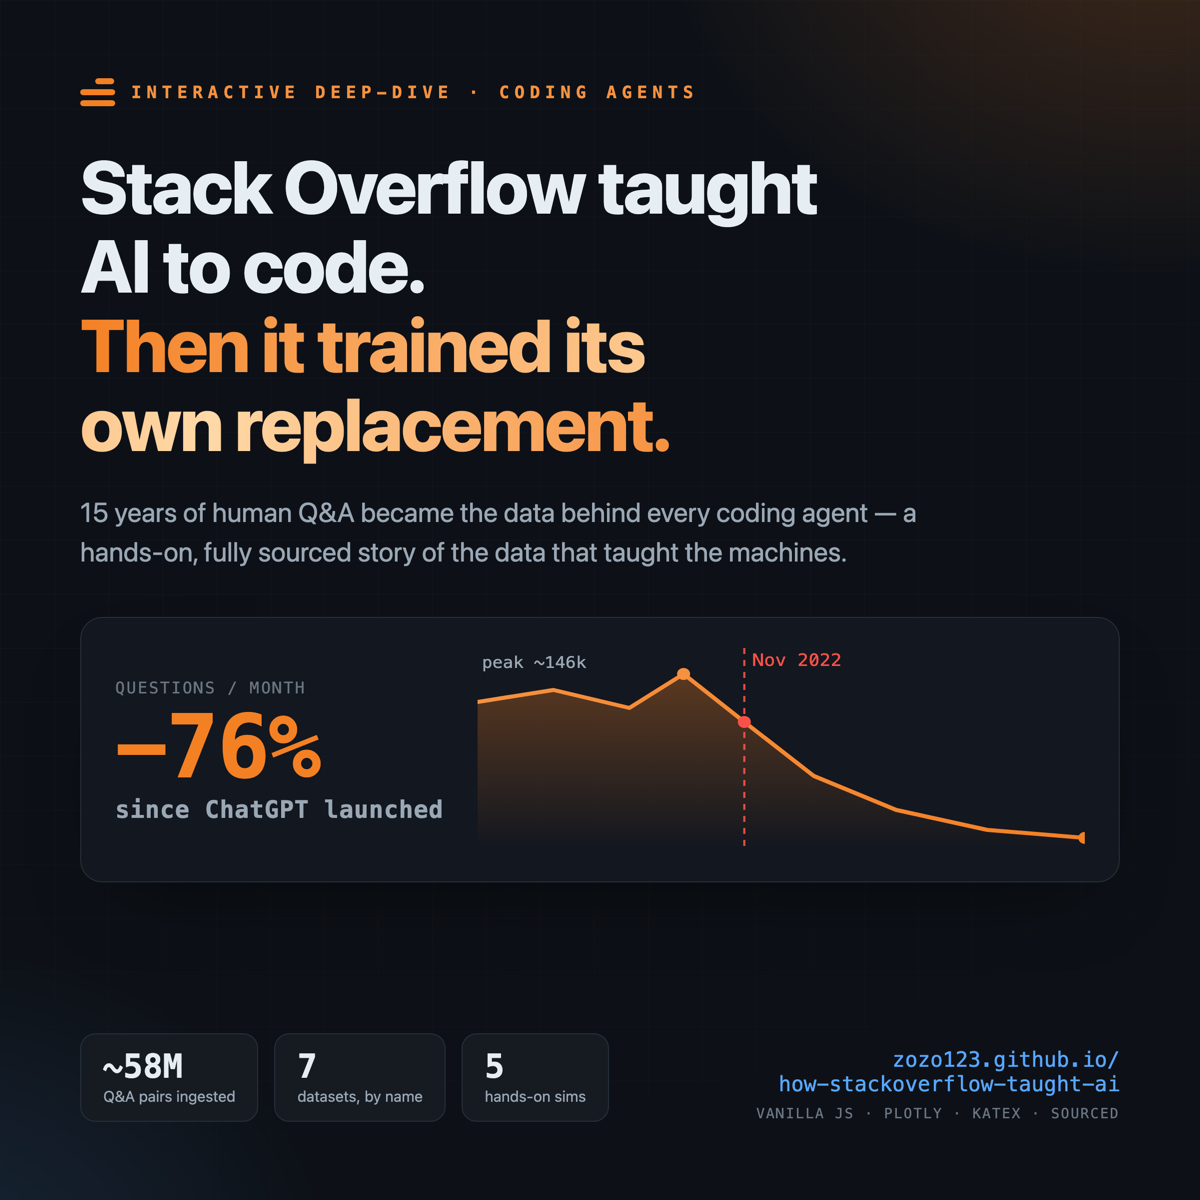
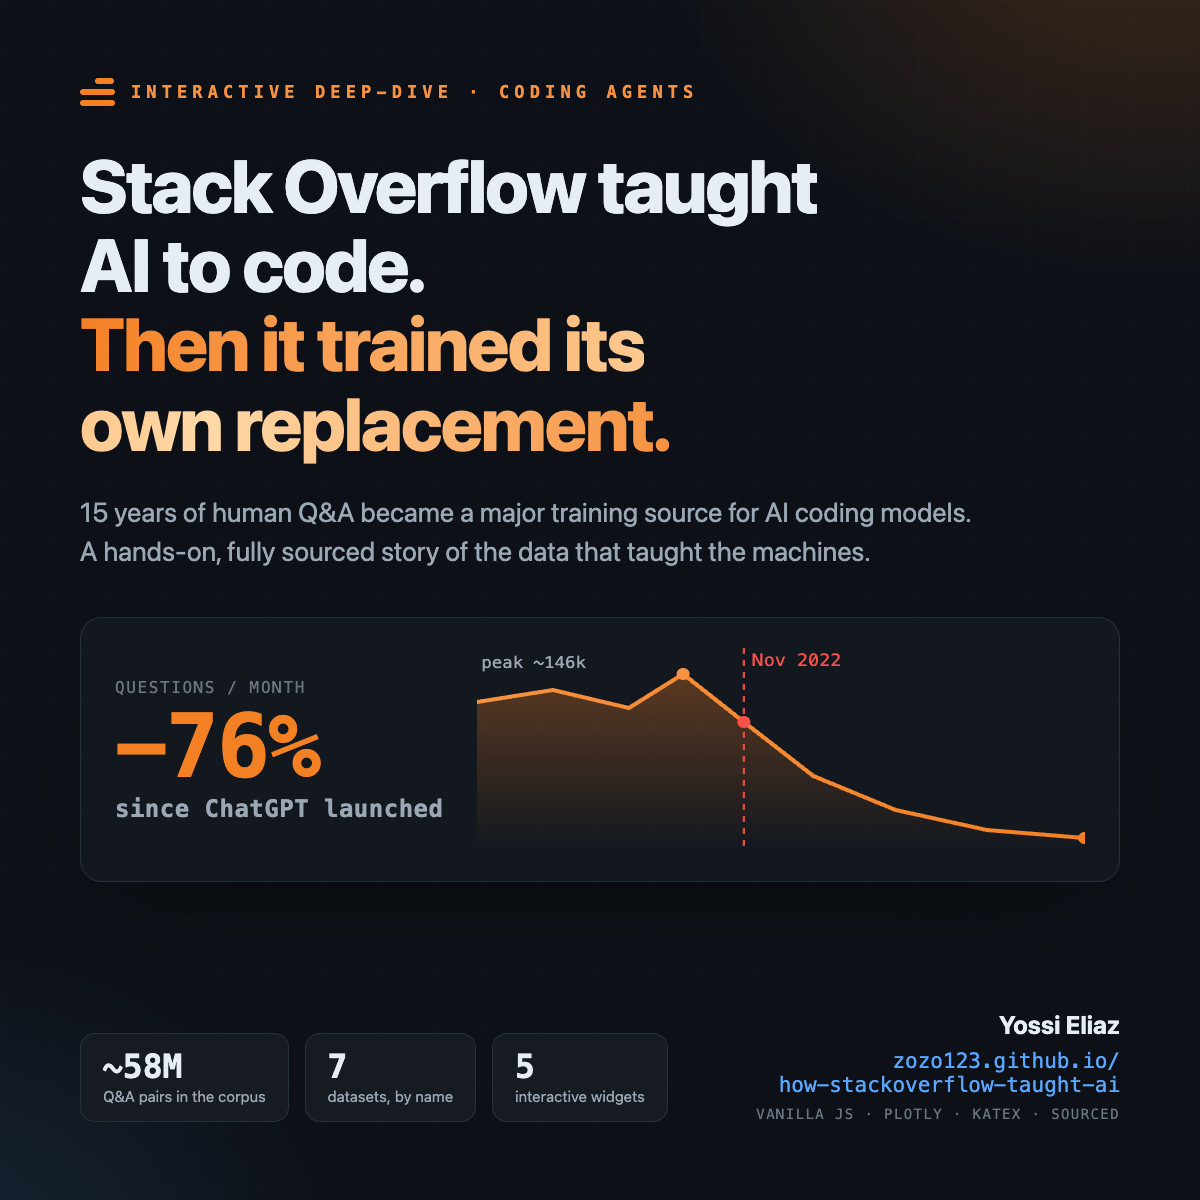
Add author, SEO metadata and mobile fixes; soften overclaims
- Contain the KaTeX reward formula so the page no longer widens to 682px
  at a 390px viewport; keep the nav button on one line on phones
- Add byline and date, footer link to zozo123.github.io, meta author,
  canonical, shorter title and description, and Article JSON-LD
- Add an answer-first summary and replace superlatives in the lede,
  meta/social descriptions, share cards and POST.md
- Re-render og-image.png and og-square.png with the author name and
  the ~26k label moved off the chart line
- Replace the dead DevClass source with Stack Exchange's own
  data-dump announcement
- Add a range-slider focus style and tie slider labels to their inputs
- Remove SOCIAL.md launch copy; update README first screen

diff --git a/index.html b/index.html
@@ -3,20 +3,44 @@
 <head>
 <meta charset="utf-8" />
 <meta name="viewport" content="width=device-width, initial-scale=1" />
-<title>The Data That Taught the Machines · How Stack Overflow Built the Coding Agent</title>
-<meta name="description" content="An interactive deep-dive into how 15 years of Stack Overflow Q&A became the foundational training data for AI coding agents — the perfect classroom, the reward signal, the corpus, the collapse, and what comes next." />
-<meta property="og:title" content="The Data That Taught the Machines" />
-<meta property="og:description" content="How Stack Overflow accidentally built the perfect dataset for teaching AI to code — and then trained its own replacement. Interactive, sourced, hands-on." />
+<title>How Stack Overflow Taught AI to Code · Yossi Eliaz</title>
+<meta name="description" content="Interactive, sourced essay by Yossi Eliaz: how Stack Overflow Q&amp;A became AI coding training data, and how monthly questions fell 76% from Nov 2022 to Dec 2024." />
+<meta name="author" content="Yossi Eliaz" />
+<link rel="canonical" href="https://zozo123.github.io/how-stackoverflow-taught-ai/" />
+<meta property="og:title" content="The Data That Taught the Machines: how Stack Overflow taught AI to code" />
+<meta property="og:description" content="Interactive, sourced essay by Yossi Eliaz on how Stack Overflow Q&amp;A became a major training source for AI coding models, and how new questions declined after ChatGPT." />
 <meta property="og:type" content="article" />
 <meta property="og:url" content="https://zozo123.github.io/how-stackoverflow-taught-ai/" />
 <meta property="og:image" content="https://zozo123.github.io/how-stackoverflow-taught-ai/og-image.png" />
 <meta property="og:image:width" content="1200" />
 <meta property="og:image:height" content="630" />
-<meta property="og:image:alt" content="Stack Overflow didn't just help AI learn to code — it was the classroom. A declining-questions chart with a ChatGPT marker." />
+<meta property="og:image:alt" content="Stack Overflow taught AI to code, by Yossi Eliaz. A declining monthly-questions chart with a ChatGPT marker." />
+<meta property="article:author" content="Yossi Eliaz" />
+<meta property="article:published_time" content="2026-06-07" />
 <meta name="twitter:card" content="summary_large_image" />
-<meta name="twitter:title" content="The Data That Taught the Machines" />
-<meta name="twitter:description" content="How 15 years of human Q&A became the training data for AI coding agents — and then trained its own replacement. Interactive & sourced." />
+<meta name="twitter:title" content="The Data That Taught the Machines: how Stack Overflow taught AI to code" />
+<meta name="twitter:description" content="Interactive, sourced essay by Yossi Eliaz on how Stack Overflow Q&amp;A became a major training source for AI coding models, and how new questions declined after ChatGPT." />
 <meta name="twitter:image" content="https://zozo123.github.io/how-stackoverflow-taught-ai/og-image.png" />
+<script type="application/ld+json">
+{
+  "@context": "https://schema.org",
+  "@type": "Article",
+  "headline": "The Data That Taught the Machines: how Stack Overflow taught AI to code",
+  "description": "Interactive, sourced essay on how Stack Overflow Q&A became training data for AI coding models, and how new questions declined after ChatGPT.",
+  "url": "https://zozo123.github.io/how-stackoverflow-taught-ai/",
+  "mainEntityOfPage": "https://zozo123.github.io/how-stackoverflow-taught-ai/",
+  "image": "https://zozo123.github.io/how-stackoverflow-taught-ai/og-image.png",
+  "datePublished": "2026-06-07",
+  "dateModified": "2026-10-22",
+  "inLanguage": "en",
+  "author": {
+    "@type": "Person",
+    "name": "Yossi Eliaz",
+    "url": "https://yossieliaz.netlify.app/",
+    "sameAs": ["https://github.com/zozo123", "https://www.linkedin.com/in/yossi-eliaz/"]
+  }
+}
+</script>
 
 <link rel="preconnect" href="https://cdn.jsdelivr.net" />
 <link rel="stylesheet" href="https://cdn.jsdelivr.net/npm/katex@0.16.11/dist/katex.min.css" crossorigin="anonymous" />
@@ -54,8 +78,9 @@
   nav.top .brand .stack i:nth-child(1){width:11px;margin-left:7px}
   nav.top .brand .stack i:nth-child(2){width:18px}
   nav.top .brand .stack i:nth-child(3){width:18px}
-  nav.top a.gh{color:var(--muted);text-decoration:none;font-size:13px;border:1px solid var(--line);padding:5px 11px;border-radius:7px}
+  nav.top a.gh{color:var(--muted);text-decoration:none;font-size:13px;border:1px solid var(--line);padding:5px 11px;border-radius:7px;white-space:nowrap;flex:none;margin-left:12px}
   nav.top a.gh:hover{color:var(--ink);border-color:var(--so)}
+  @media(max-width:480px){nav.top .brand{font-size:13px;line-height:1.25}}
 
   /* hero */
   header.hero{padding:120px 0 38px;text-align:center}
@@ -65,6 +90,7 @@
   .lede{font-size:clamp(17px,2.4vw,21px);color:var(--muted);max-width:680px;margin:0 auto 26px}
   .hero-meta{font-family:var(--mono);font-size:12.5px;color:var(--faint);display:flex;gap:18px;justify-content:center;flex-wrap:wrap}
   .hero-meta b{color:var(--muted);font-weight:600}
+  .hero-meta a{color:var(--muted)}
 
   /* big stat band */
   .band{display:grid;grid-template-columns:repeat(4,1fr);gap:14px;margin:46px 0 10px}
@@ -101,6 +127,7 @@
   .ctrl label{color:var(--muted);font-family:var(--mono);font-size:12.5px;letter-spacing:.04em}
   .ctrl .val{font-family:var(--mono);color:var(--so);font-weight:700}
   input[type=range]{-webkit-appearance:none;appearance:none;height:5px;border-radius:5px;background:var(--panel2);outline:none;width:100%}
+  input[type=range]:focus-visible{outline:2px solid var(--so);outline-offset:4px}
   input[type=range]::-webkit-slider-thumb{-webkit-appearance:none;width:17px;height:17px;border-radius:50%;background:var(--so);cursor:pointer;border:3px solid #2a1a0a;box-shadow:0 0 0 1px var(--so)}
   input[type=range]::-moz-range-thumb{width:17px;height:17px;border-radius:50%;background:var(--so);cursor:pointer;border:3px solid #2a1a0a}
   .toggles{display:flex;gap:8px;flex-wrap:wrap;margin:8px 0}
@@ -187,6 +214,7 @@
   details.sources summary{cursor:pointer;color:var(--so);font-family:var(--mono);font-size:13px;letter-spacing:.06em;text-transform:uppercase;margin-bottom:10px}
   hr.soft{border:none;border-top:1px dashed var(--line);margin:30px 0}
   .center{text-align:center}
+  .katex-display{overflow-x:auto;overflow-y:hidden;max-width:100%;padding:4px 0}
 </style>
 </head>
 <body>
@@ -200,8 +228,10 @@
   <div class="wrap">
     <div class="kicker">An interactive deep-dive · coding agents</div>
     <h1>Stack Overflow didn't just <em>help</em> AI learn to code.<br><span class="grad">It was the classroom.</span></h1>
-    <p class="lede">For fifteen years, developers volunteered to build the most rigorously structured dataset of programming logic in human history. Then we taught a machine to read it — and it learned to replace us. Drag the sliders, watch the corpus, and see exactly how human Q&A became machine reasoning.</p>
+    <p class="lede">An interactive essay by Yossi Eliaz (June 2026): Stack Overflow's question–answer–vote format made it a key training and reward source for AI coding models, and monthly new questions fell about 76% from Nov 2022 to Dec 2024.</p>
+    <p class="lede">For fifteen years, developers built one of the largest public, community-voted collections of programming Q&amp;A. Then labs used it to train AI coding models, which now answer many of the questions people used to ask there. Drag the sliders, watch the corpus, and see how human Q&amp;A became machine reasoning.</p>
     <div class="hero-meta">
+      <span>By <a href="https://zozo123.github.io/">Yossi Eliaz</a> · June 2026</span>
       <span><b>Built with</b> vanilla JS · Plotly · KaTeX</span>
       <span><b>No backend.</b> No telemetry.</span>
       <span><b>Every number</b> is sourced ↓</span>
@@ -294,7 +324,7 @@
     <div class="grid2">
       <div>
         <div class="ctrl">
-          <div class="row"><label>Upvotes (net score)</label><span class="val" id="upvVal">312</span></div>
+          <div class="row"><label for="upv">Upvotes (net score)</label><span class="val" id="upvVal">312</span></div>
           <input type="range" id="upv" min="-5" max="2000" value="312" />
         </div>
         <label class="check" style="margin:14px 0 6px"><input type="checkbox" id="acc" checked> Marked as the <b style="color:#48a868;margin-left:4px">accepted ✓</b> answer</label>
@@ -383,11 +413,11 @@
     <div class="grid2">
       <div>
         <div class="ctrl">
-          <div class="row"><label>Generations</label><span class="val" id="genVal">9</span></div>
+          <div class="row"><label for="gen">Generations</label><span class="val" id="genVal">9</span></div>
           <input type="range" id="gen" min="1" max="14" value="9" />
         </div>
         <div class="ctrl">
-          <div class="row"><label>Sample size / generation</label><span class="val" id="sampVal">120</span></div>
+          <div class="row"><label for="samp">Sample size / generation</label><span class="val" id="sampVal">120</span></div>
           <input type="range" id="samp" min="20" max="600" value="120" step="10" />
         </div>
         <div class="toggles">
@@ -403,7 +433,7 @@
     </div>
   </div>
 
-  <p>The good news, and the live debate: collapse depends on <em>replacing</em> human data with synthetic. A follow-up showed that if you <strong>accumulate</strong> — keep the real data and add synthetic on top — test error stays bounded.<sup class="cite" data-c="15">15</sup> Flip the mode above to see it. Which is precisely why a fresh, human, verified stream of Q&A is suddenly a strategic asset. The supply, meanwhile, is contracting fast: an audit of 14,000 web domains found that in a single year, restrictions locked away <strong>5%+ of all tokens</strong> in the common C4 corpus, and 28%+ of the most actively-maintained sources.<sup class="cite" data-c="16">16</sup></p>
+  <p>The good news, and the live debate: collapse depends on <em>replacing</em> human data with synthetic. A follow-up showed that if you <strong>accumulate</strong> — keep the real data and add synthetic on top — test error stays bounded.<sup class="cite" data-c="15">15</sup> Flip the mode above to see it. Which is precisely why a fresh, human, verified stream of Q&amp;A is suddenly a strategic asset. The supply, meanwhile, is contracting fast: an audit of 14,000 web domains found that in a single year, restrictions locked away <strong>5%+ of all tokens</strong> in the common C4 corpus, and 28%+ of the most actively-maintained sources.<sup class="cite" data-c="16">16</sup></p>
 
   <blockquote>"What happens when we stop pooling our knowledge with each other and instead pour it straight into The Machine?"
   <cite>— Peter Nixey, Stack Overflow contributor, in InfoWorld, May 2025<sup class="cite" data-c="17">17</sup></cite></blockquote>
@@ -449,7 +479,7 @@
     <div class="ev">
       <div class="yr">Feb – May 2024 · The pivot</div>
       <div class="h">If you can't beat them, license to them</div>
-      <div class="d">Stack Overflow launches <b>OverflowAPI</b> — Google Cloud / Gemini in February, then a landmark <b>OpenAI</b> deal in May 2024: paid, continuous access to fresh, vetted Q&A, with a promise to cite Stack Overflow inside ChatGPT.<sup class="cite" data-c="20">20</sup></div>
+      <div class="d">Stack Overflow launches <b>OverflowAPI</b> — Google Cloud / Gemini in February, then a landmark <b>OpenAI</b> deal in May 2024: paid, continuous access to fresh, vetted Q&amp;A, with a promise to cite Stack Overflow inside ChatGPT.<sup class="cite" data-c="20">20</sup></div>
     </div>
     <div class="ev bad">
       <div class="yr">May 2024 · The rebellion</div>
@@ -535,7 +565,7 @@
       <li id="s3">LLaMA — StackExchange 78 GB, 2.0% sampling, answers "sorted by score." <a href="https://arxiv.org/abs/2302.13971" target="_blank" rel="noopener">arXiv:2302.13971</a>.</li>
       <li id="s4">RedPajama-V1 — ~20B StackExchange tokens of ~1.2T. <a href="https://arxiv.org/abs/2411.12372" target="_blank" rel="noopener">arXiv:2411.12372</a>.</li>
       <li id="s5">Dolma v1.7 / OLMo — StackExchange 29.3M docs, ~19.6B tokens. <a href="https://huggingface.co/datasets/allenai/dolma" target="_blank" rel="noopener">Dolma card</a>, <a href="https://arxiv.org/abs/2402.00159" target="_blank" rel="noopener">arXiv:2402.00159</a>.</li>
-      <li id="s6">Stack Overflow corpus size (58M+ Q&amp;A) and CC BY-SA licensing. <a href="https://stackoverflow.co/data-licensing/" target="_blank" rel="noopener">SO data licensing</a>; <a href="https://devclass.com/2024/07/30/stack-exchange-restricts-access-to-dump-of-user-contributed-data-as-it-seeks-to-monetize-content/" target="_blank" rel="noopener">DevClass on the data-dump restriction</a>. <span class="pill warn">whether the dump restriction is compatible with CC BY-SA is disputed</span></li>
+      <li id="s6">Stack Overflow corpus size (58M+ Q&amp;A) and CC BY-SA licensing. <a href="https://stackoverflow.co/data-licensing/" target="_blank" rel="noopener">SO data licensing</a>; <a href="https://meta.stackexchange.com/questions/401324/announcing-a-change-to-the-data-dump-process" target="_blank" rel="noopener">Stack Exchange's announcement of the data-dump change (Jul 2024)</a>. <span class="pill warn">whether the dump restriction is compatible with CC BY-SA is disputed</span></li>
       <li id="s7">LIMA — 1,000 curated examples (≥10 score Stack Exchange answers) beat 52k. <a href="https://arxiv.org/abs/2305.11206" target="_blank" rel="noopener">arXiv:2305.11206</a>.</li>
       <li id="s8">StackLLaMA — reward <span style="font-family:var(--mono)">round(log2(1+upvotes)) + accepted − (score&lt;0)</span>. <a href="https://huggingface.co/blog/stackllama" target="_blank" rel="noopener">HF blog</a>; dataset <code>lvwerra/stack-exchange-paired</code>.</li>
       <li id="s9">Stack Overflow Developer Survey 2025 — 84% use AI, trust 33% (distrust 46%), "almost right" the #1 frustration (45%). <a href="https://survey.stackoverflow.co/2025/ai/" target="_blank" rel="noopener">survey.stackoverflow.co/2025/ai</a>.</li>
@@ -560,9 +590,9 @@
 </main>
 
 <footer class="wrap">
-  <p><strong style="color:var(--ink)">The Data That Taught the Machines.</strong> An interactive essay on how Stack Overflow built the coding agent — and the incentive problem it left behind.</p>
+  <p><strong style="color:var(--ink)">The Data That Taught the Machines.</strong> An interactive essay on how Stack Overflow taught AI to code — and the incentive problem it left behind.</p>
   <p>Built in the spirit of a learn-by-dragging sandbox. Vanilla JS, Plotly &amp; KaTeX. No backend, no telemetry. Numbers are sourced above; illustrative items are labeled. Generated with help from Claude Code.</p>
-  <p style="margin-top:14px"><a id="ghlink2" href="#" target="_blank" rel="noopener">Source on GitHub ↗</a></p>
+  <p style="margin-top:14px"><a href="https://zozo123.github.io/">More writing by Yossi Eliaz</a> · <a id="ghlink2" href="#" target="_blank" rel="noopener">Source on GitHub ↗</a></p>
 </footer>
 
 <script>

diff --git a/og.html b/og.html
@@ -46,6 +46,7 @@
   .chip .n{font-size:27px;font-weight:800;color:#e6edf3;line-height:1}
   .chip .l{font-size:13px;color:#9aa7b4}
   .url{text-align:right;white-space:nowrap}
+  .url .by{display:block;font-family:-apple-system,BlinkMacSystemFont,"Segoe UI",Helvetica,Arial,sans-serif;font-size:21px;font-weight:700;color:#e6edf3;margin-bottom:8px}
   .url .a{font-size:17px;color:#58a6ff}
   .url .s{display:block;font-size:12.5px;letter-spacing:.10em;color:#6b7682;margin-top:7px;text-transform:uppercase}
 </style>
@@ -59,7 +60,7 @@
       <span class="kicker mono">Interactive deep-dive · coding agents</span>
     </div>
     <h1>Stack Overflow taught<br>AI to code.<br><span class="g">Then it trained its<br>own replacement.</span></h1>
-    <div class="sub">15 years of human Q&amp;A became the data behind every coding agent. Hands-on &amp; fully sourced.</div>
+    <div class="sub">15 years of human Q&amp;A became a major training source for AI coding models. Hands-on &amp; fully sourced.</div>
   </div>
 
   <div class="R">
@@ -84,17 +85,18 @@
       <circle cx="120" cy="20" r="5" fill="#f6913f"/>
       <text x="2" y="14" fill="#9aa7b4" font-family="monospace" font-size="12.5">peak ~146k</text>
       <circle cx="356" cy="140" r="5" fill="#f48024"/>
-      <text x="276" y="135" fill="#9aa7b4" font-family="monospace" font-size="12.5">~26k</text>
+      <text x="314" y="122" fill="#9aa7b4" font-family="monospace" font-size="12.5">~26k</text>
     </svg>
   </div>
 
   <div class="B">
     <div class="chips">
-      <div class="chip"><span class="n mono">~58M</span><span class="l">Q&amp;A pairs ingested</span></div>
+      <div class="chip"><span class="n mono">~58M</span><span class="l">Q&amp;A pairs in the corpus</span></div>
       <div class="chip"><span class="n mono">7</span><span class="l">datasets, by name</span></div>
-      <div class="chip"><span class="n mono">5</span><span class="l">hands-on simulations</span></div>
+      <div class="chip"><span class="n mono">5</span><span class="l">interactive widgets</span></div>
     </div>
     <div class="url mono">
+      <span class="by">Yossi Eliaz</span>
       <span class="a">zozo123.github.io/how-stackoverflow-taught-ai</span>
       <span class="s">vanilla JS · Plotly · KaTeX · sourced</span>
     </div>

diff --git a/og-square.html b/og-square.html
@@ -45,6 +45,7 @@
   .chip .n{font-size:33px;font-weight:800;color:#e6edf3;line-height:1}
   .chip .l{font-size:15px;color:#9aa7b4}
   .url{text-align:right}
+  .url .by{display:block;font-family:-apple-system,BlinkMacSystemFont,"Segoe UI",Helvetica,Arial,sans-serif;font-size:25px;font-weight:700;color:#e6edf3;margin-bottom:10px}
   .url .a{font-size:21px;color:#58a6ff}
   .url .s{display:block;font-size:14px;letter-spacing:.10em;color:#6b7682;margin-top:9px;text-transform:uppercase}
 </style>
@@ -58,7 +59,7 @@
     </div>
 
     <h1>Stack Overflow taught<br>AI to code.<br><span class="g">Then it trained its<br>own replacement.</span></h1>
-    <div class="sub">15 years of human Q&amp;A became the data behind every coding agent — a hands-on, fully sourced story of the data that taught the machines.</div>
+    <div class="sub">15 years of human Q&amp;A became a major training source for AI coding models. A hands-on, fully sourced story of the data that taught the machines.</div>
 
     <div class="R">
       <div class="left">
@@ -91,11 +92,12 @@
 
     <div class="B">
       <div class="chips">
-        <div class="chip"><span class="n mono">~58M</span><span class="l">Q&amp;A pairs ingested</span></div>
+        <div class="chip"><span class="n mono">~58M</span><span class="l">Q&amp;A pairs in the corpus</span></div>
         <div class="chip"><span class="n mono">7</span><span class="l">datasets, by name</span></div>
-        <div class="chip"><span class="n mono">5</span><span class="l">hands-on sims</span></div>
+        <div class="chip"><span class="n mono">5</span><span class="l">interactive widgets</span></div>
       </div>
       <div class="url mono">
+        <span class="by">Yossi Eliaz</span>
         <span class="a">zozo123.github.io/<br>how-stackoverflow-taught-ai</span>
         <span class="s">vanilla JS · Plotly · KaTeX · sourced</span>
       </div>

diff --git a/README.md b/README.md
@@ -1,8 +1,10 @@
 # The Data That Taught the Machines
 
-**An interactive deep-dive into how Stack Overflow became the foundational training data for AI coding agents — and then trained its own replacement.**
+An interactive, sourced essay by [Yossi Eliaz](https://zozo123.github.io/) (published June 2026) on how Stack Overflow Q&A became a major training source for AI coding models, and how new questions declined after ChatGPT.
 
-🔗 **Live:** https://zozo123.github.io/how-stackoverflow-taught-ai/
+**Live:** https://zozo123.github.io/how-stackoverflow-taught-ai/
+
+![Share card: Stack Overflow taught AI to code, with a monthly-questions chart falling 76% after ChatGPT](og-image.png)
 
 Built in the spirit of a *learn-by-dragging* sandbox (inspired by the [market-making-sandbox](https://zozo123.github.io/market-making-sandbox/)): vanilla JS, [Plotly](https://plotly.com/javascript/) & [KaTeX](https://katex.org/). No backend, no telemetry, single file.
 
@@ -21,12 +23,12 @@ A single-page interactive essay with hands-on widgets:
 9. **Go deeper** — a curated learning path (Karpathy, fast.ai, Hugging Face, the foundational papers).
 10. **Receipts** — every headline number sourced; contested and illustrative claims explicitly flagged.
 
-See [`POST.md`](./POST.md) for the written article version, and [`SOCIAL.md`](./SOCIAL.md) for launch copy (X thread, LinkedIn, HN).
+See [`POST.md`](./POST.md) for the written article version.
 
 ## Social cards
 
 - `og-image.png` (1200×630) — wired into Open Graph + Twitter meta; auto-previews when the link is shared.
-- `og-square.png` (1200×1200) — square variant for Instagram / Mastodon / manual posts.
+- `og-square.png` (1200×1200) — square variant.
 
 Both are generated from `og.html` / `og-square.html` via headless Chrome — edit the HTML and re-render.
 

diff --git a/POST.md b/POST.md
@@ -1,8 +1,10 @@
-# The Data That Taught the Machines: How Stack Overflow Built the Coding Agent
+# The Data That Taught the Machines: How Stack Overflow Taught AI to Code
 
-> An interactive companion lives at the deployed site — drag the sliders, watch the corpus, and run the model-collapse simulation. This is the written version.
+*By [Yossi Eliaz](https://zozo123.github.io/) · June 2026*
 
-It is an absolutely fascinating story, and it is bigger than "Stack Overflow helped." For fifteen years, developers volunteered to build the most rigorously structured dataset of programming logic in human history. Then we taught a machine to read it — and it learned to replace us.
+> An [interactive companion](https://zozo123.github.io/how-stackoverflow-taught-ai/) lets you drag the sliders, watch the corpus, and run the model-collapse simulation. This is the written version.
+
+The story is bigger than "Stack Overflow helped." For fifteen years, developers built one of the largest public, community-voted collections of programming Q&A. Then labs used it to train AI coding models, which now answer many of the questions people used to ask there.
 
 Here is exactly how that data taught AI to *think* like a programmer, the crisis it created, and what happens next.
 
